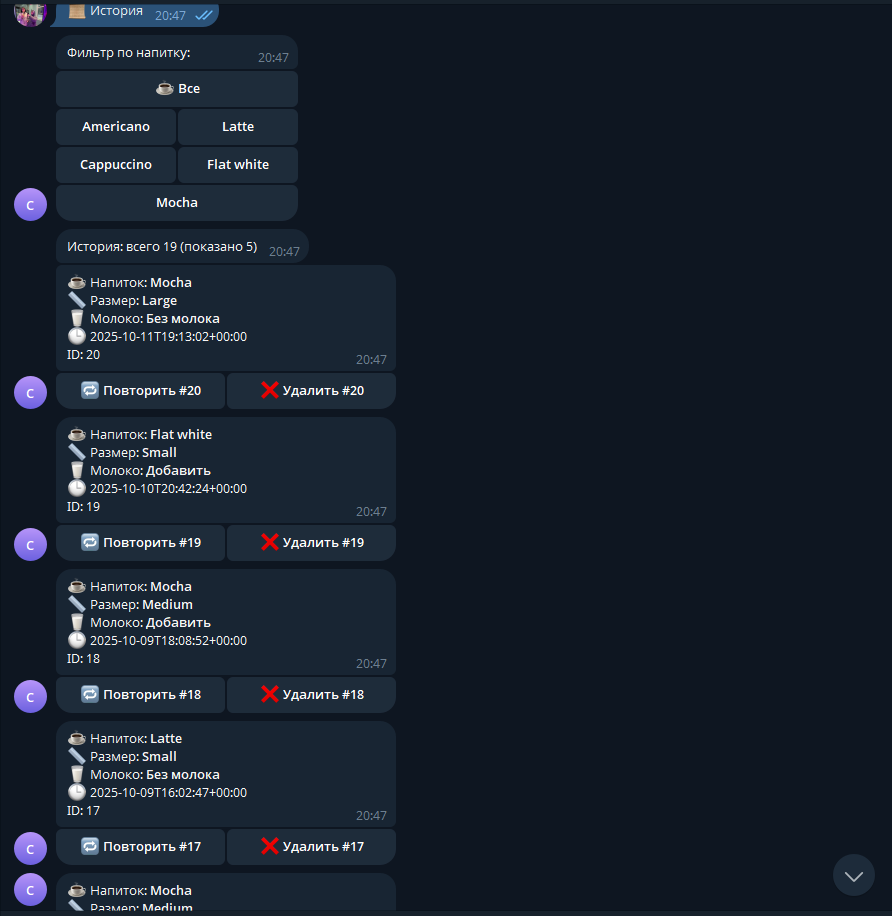
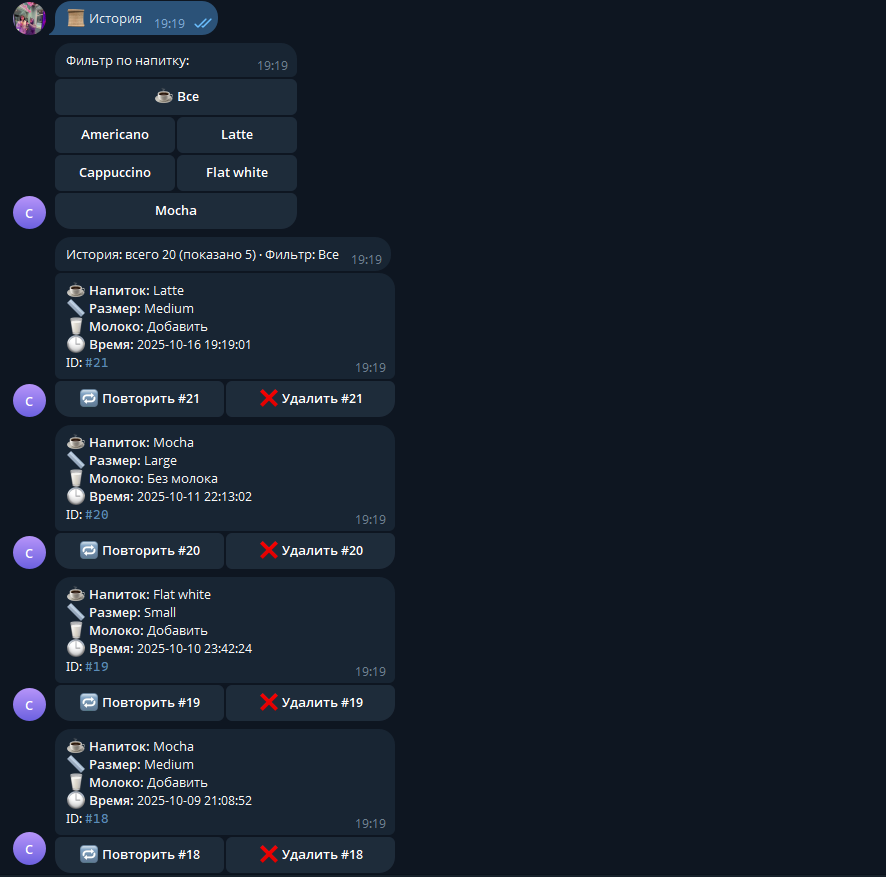
ui(history): unified card layout + HTML; docs: cases + CTA + demo

diff --git a/bot/services/history.py b/bot/services/history.py
@@ -1,53 +1,78 @@
 from aiogram.types import Message
 from ..catalog import DRINKS, SIZES
 from ..keyboards import history_actions_kb, history_more_kb
-from ..helpers import iso_from_epoch
 from ..repo import get_orders_page, count_orders
+from ..utils import fmt_ts
 import logging
+
 log = logging.getLogger("history")
 
-MAX_TS = 2_147_483_647
 PAGE_SIZE = 5
 
-def _label_drink(code: str) -> str: return DRINKS.get(code, code.title())
-def _label_size(code: str) -> str:  return SIZES.get(code, code.title())
+def _label_drink(code: str) -> str:
+    return DRINKS.get(code, code.title())
 
-async def send_history_page(message: Message, drink: str = "all", offset: int = 0, user_id: int | None = None):
+def _label_size(code: str) -> str:
+    return SIZES.get(code, code.title())
+
+async def send_history_page(
+    message: Message,
+    drink: str = "all",
+    offset: int = 0,
+    user_id: int | None = None
+):
     uid = user_id or message.from_user.id
-    total = await count_orders(user_id=uid, drink=None if drink in (None, "all") else drink)
+    drink_filter = None if drink in (None, "all") else drink
 
+    total = await count_orders(user_id=uid, drink=drink_filter)
     if total == 0:
-        await message.answer(
-            "История заказа пока пуста 🗃" if drink in (None, "all") else f"Нет заказов для {_label_drink(drink)}.")
+        text = (
+            "История заказа пока пуста 🗃"
+            if drink_filter is None else
+            f"Нет заказов для {_label_drink(drink)}."
+        )
+        await message.answer(text)
         return
 
-    rows = await get_orders_page(user_id=uid, drink=None if drink in (None, "all") else drink,
-                                 offset=offset, limit=PAGE_SIZE)
+    rows = await get_orders_page(
+        user_id=uid,
+        drink=drink_filter,
+        offset=offset,
+        limit=PAGE_SIZE
+    )
     if not rows:
         return
 
     shown = min(PAGE_SIZE, total - offset)
 
     if offset == 0:
-        await message.answer(f"История: всего {total} (показано {shown})")
+        f_label = "Все" if drink_filter is None else _label_drink(drink)
+        await message.answer(f"История: всего {total} (показано {shown}) · Фильтр: {f_label}")
 
-    log.debug("history: uid=%s drink=%s count=%s offset=%s", message.from_user.id, drink, total, offset)
+    log.debug("history: uid=%s drink=%s count=%s offset=%s", uid, drink, total, offset)
 
     for r in rows:
-        oid, d_code, size_code, milk, created = (r["id"], r["drink"], r["size"], r["milk"], r["created_at"])
+        oid = r["id"]
+        d_code = r["drink"]
+        size_code = r["size"]
+        milk = r["milk"]
+        created = r["created_at"]
+
         text = (
-            f"☕ Напиток: *{_label_drink(d_code)}*\n"
-            f"📏 Размер: *{_label_size(size_code)}*\n"
-            f"🥛 Молоко: *{'Добавить' if milk == 'yes' else 'Без молока'}*\n"
-            f"🕒 {iso_from_epoch(created)}\n"
-            f"ID: {oid}"
+            f"☕ <b>Напиток:</b> {_label_drink(d_code)}\n"
+            f"📏 <b>Размер:</b> {_label_size(size_code)}\n"
+            f"🥛 <b>Молоко:</b> {'Добавить' if milk == 'yes' else 'Без молока'}\n"
+            f"🕒 <b>Время:</b> {fmt_ts(created)}\n"
+            f"ID: <code>#{oid}</code>"
         )
-        await message.answer(text, parse_mode="Markdown", reply_markup=history_actions_kb(oid))
+        await message.answer(text, reply_markup=history_actions_kb(oid), parse_mode="HTML")
 
     remain = total - (offset + shown)
     if remain > 0:
-        await message.answer(f"Показать ещё {remain}",
-                             reply_markup=history_more_kb(drink=drink, offset=offset + shown, remain=remain))
+        await message.answer(
+            f"Показать ещё {remain}",
+            reply_markup=history_more_kb(drink=drink, offset=offset + shown, remain=remain)
+        )
 
 def parse_cb(data: str) -> dict:
     if data.startswith("history_filter:"):

diff --git a/docs/cases.md b/docs/cases.md
@@ -1,10 +1,18 @@
 # Кейсы
 
-## Кофейня «Арома» (20–30 заказов/день)
-- Что было: WhatsApp/звонки, путаница, потерянные заказы.
-- Что сделали: меню, история, экспорт, отчёт «топ».
-- Результат: на 18% больше повторных заказов, владелец видит лидеры продаж.
+## Кофейня на районе (самозанятый)
+**Задача:** быстро принимать заказы без витрины и CRM.  
+**Решение:** Telegram-бот: меню → заказ → история/экспорт. Настроили экспорт в Excel и /top.  
+**Результат:** +20% повторных заказов за 2 недели.
 
-## Салон красоты «Лайм»
-- Что сделали: запись на услуги через Telegram, напоминания, экспорт.
-- Результат: мастера заняты равномерно, владелец в один клик смотрит статистику.
+<img src="img/history1.png" width="48%"> <img src="img/top.png" width="48%">
+<img src="img/export1.png" width="48%"> <img src="img/stats.png" width="48%">
+
+---
+
+## Доставка десертов (малый бизнес)
+**Задача:** собирать заявки и считать популярные позиции.  
+**Решение:** добавили фильтр по товару и выгрузку CSV «по позиции».  
+**Результат:** оптимизация закупок, сократили списания.
+
+<img src="img/history2.png" width="48%"> <img src="img/export2.png" width="48%">

diff --git a/README.md b/README.md
@@ -2,9 +2,9 @@
 
 Готовый телеграм-бот на **Aiogram 3** для локального бизнеса: меню → заказ → история/повторы → экспорт CSV → статистика и топ. Идеально для кофейн, салонов, мастерских, локальных доставок.
 
-[✉ Написать в Telegram](https://t.me/yaroksirok) ·
-[💸 Цены и опции](docs/pricing.md) ·
-[🛠 Установка](docs/install.md) ·
+[![Написать в Telegram](https://img.shields.io/badge/Написать%20в%20Telegram-2CA5E0?logo=telegram&logoColor=white)](https://t.me/yaroksirok) 
+[💸 Цены и опции](docs/pricing.md) 
+[🛠 Установка](docs/install.md) 
 [👀 Обзор с картинками](docs/overview.md)
 
 ---
@@ -26,6 +26,11 @@
 ![Экспорт1](docs/img/export1.png)
 ![Экспорт2](docs/img/export2.png)
 ![Экспорт3](docs/img/export3.png)
+
+<p align="center">
+  <img src="docs/img/demo.gif" alt="Demo" width="720">
+</p>
+
 
 ## 🧰 Команды бота
 `/order`, `/history`, `/stats`, `/top`, `/export`, `/health`
